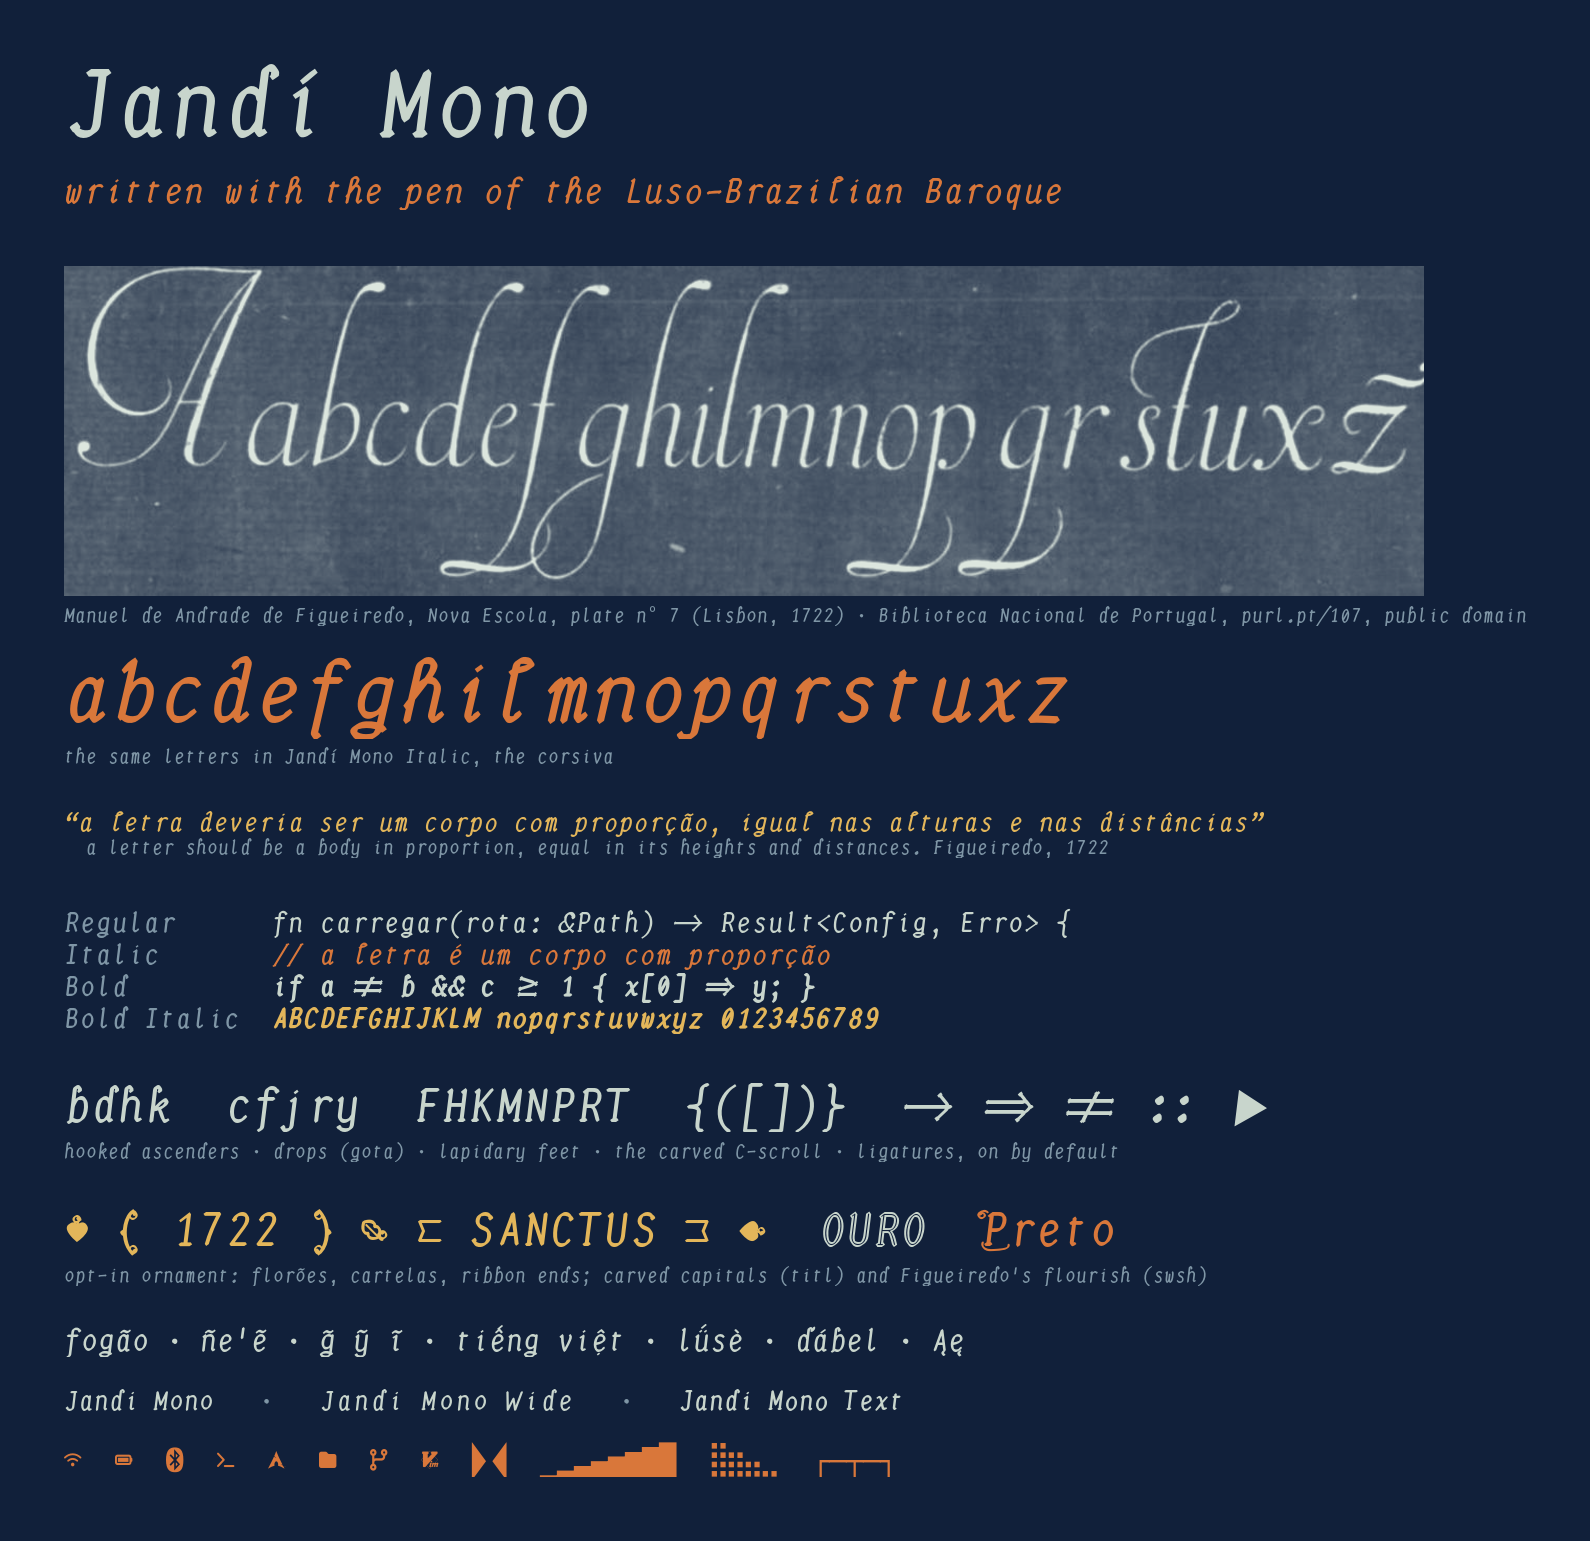
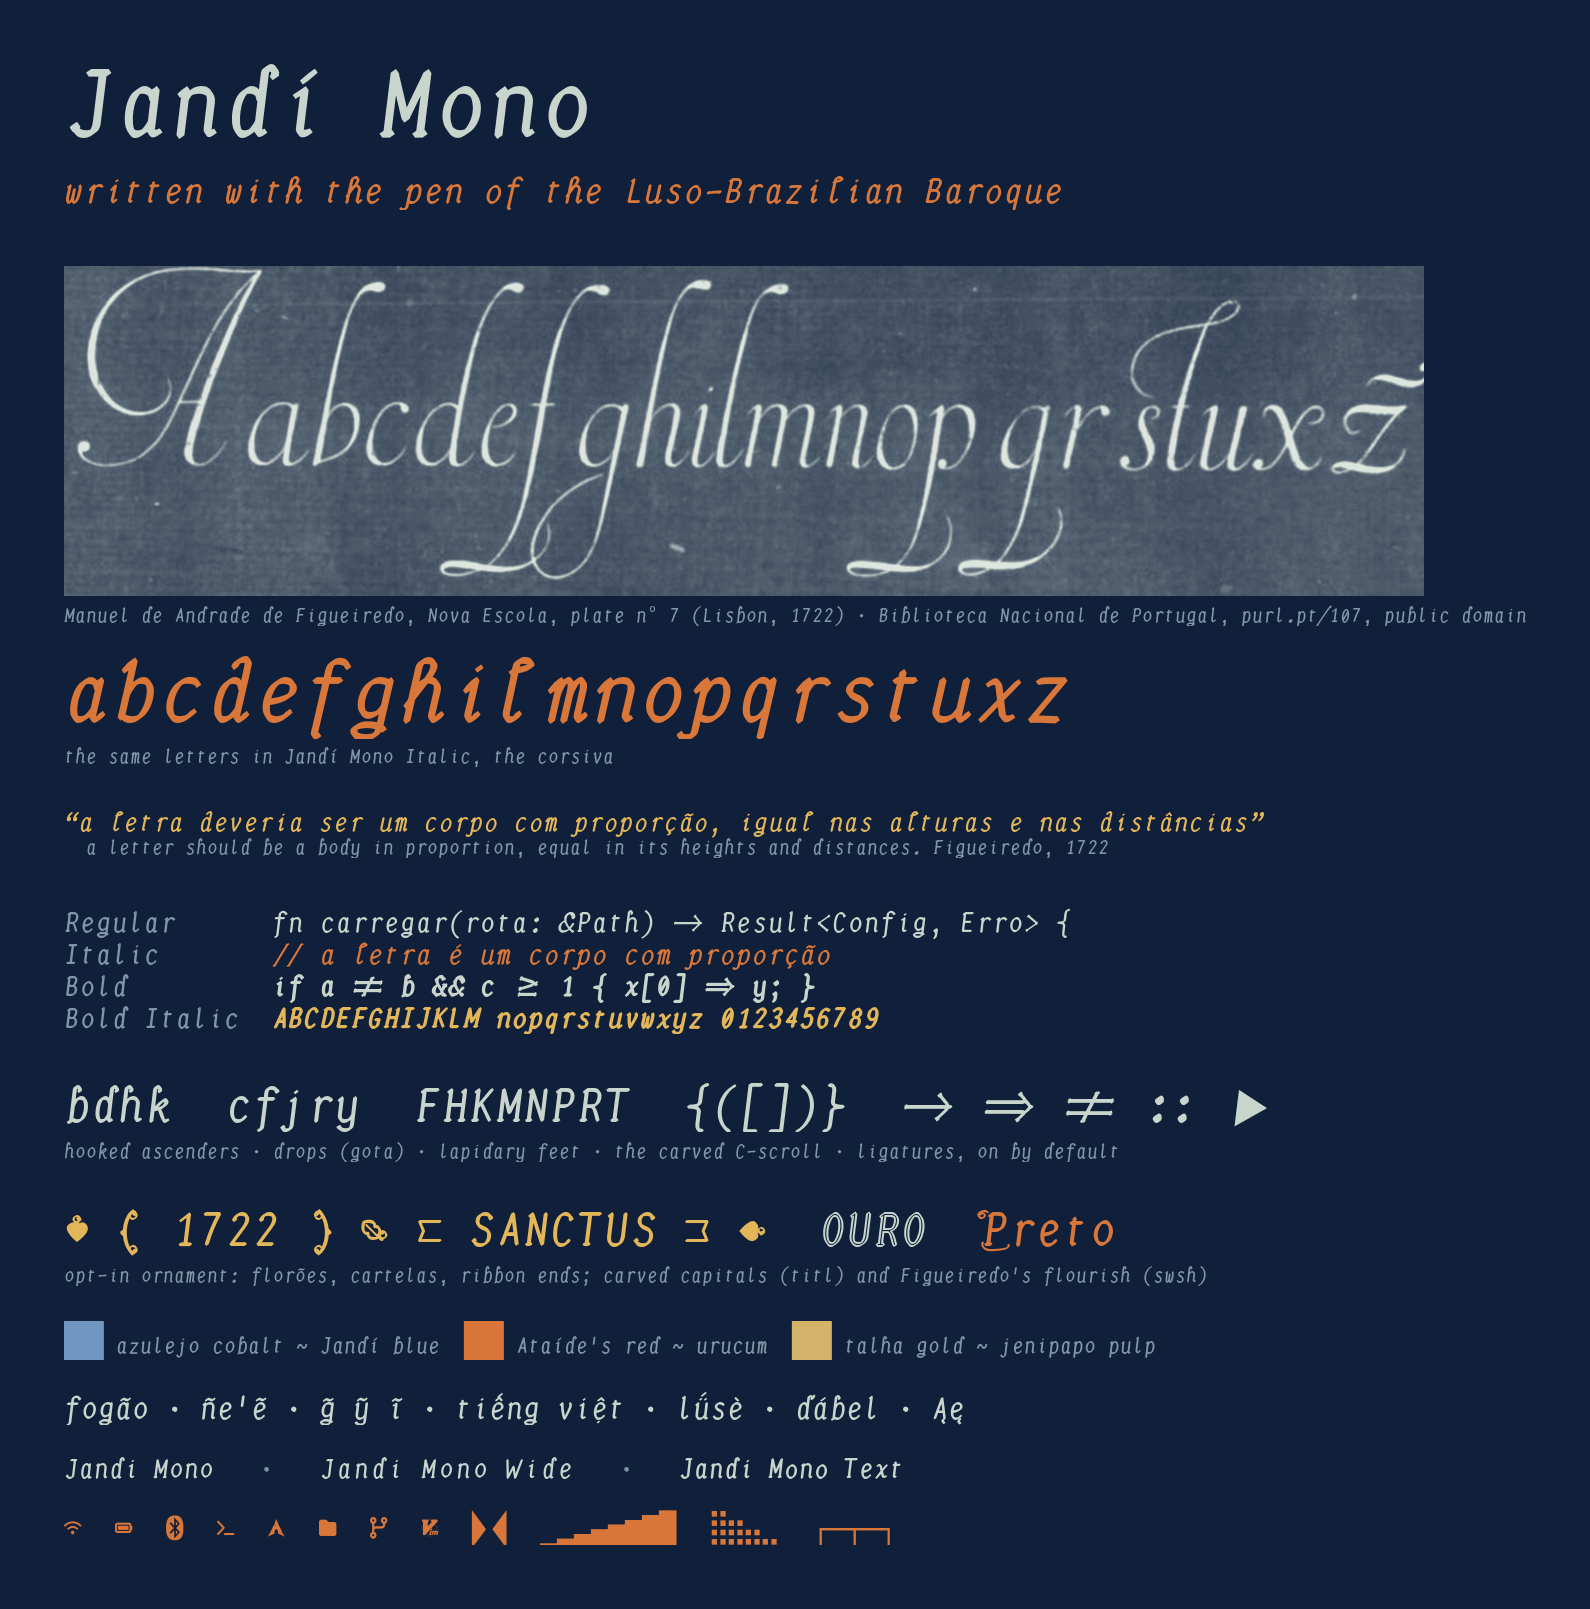
1.0 groundwork: fontbakery QA in CI, metadata fixes, reading test, specimen
- tools/finish.py: font revision agrees with the name table (Version
  M.mmp), Windows clipping metrics cover every glyph (also after the NF
  icons), a STAT table naming each static font's own weight and italic,
  the italic caret slope, no legacy Mac name records. fontbakery's
  universal profile: 0 FAIL, 0 ERROR; rendering unchanged (gate: identical).
- CI: a qa job per family runs fontbakery 1.1.0 (pinned) in parallel with
  the regression gate; releases now wait for both. case_mapping (Radon's
  African-language lowercase without capitals) and opentype/monospace (a
  fontbakery crash on CFF) are excluded with reasons.
- Reading-size guidance in the README; a palette-bridge line on the
  specimen (azulejo cobalt, Ataíde's red, talha gold).
- Roadmap: 1.0 waits on the user's reading-test sessions.

diff --git a/tools/finish.py b/tools/finish.py
@@ -1,0 +1,61 @@
+"""Metadata every built font must get right (fontbakery's universal profile).
+
+Called by merge.py on each style and again by nerd.py, whose icons extend
+the glyph bounds."""
+import math
+from fontTools.pens.boundsPen import BoundsPen
+
+
+def win_metrics(font):
+    """usWinAscent/usWinDescent cover every glyph: Windows clips anything
+    outside them (stacked Pinyin capitals, ornaments, icons). Linux line
+    spacing comes from hhea and OS/2 typo metrics, which stay as they are."""
+    gs = font.getGlyphSet()
+    y_min, y_max = 0, 0
+    for name in font.getGlyphOrder():
+        bp = BoundsPen(gs)
+        gs[name].draw(bp)
+        if bp.bounds:
+            y_min, y_max = min(y_min, bp.bounds[1]), max(y_max, bp.bounds[3])
+    os2 = font['OS/2']
+    os2.usWinAscent = max(os2.usWinAscent, math.ceil(y_max))
+    os2.usWinDescent = max(os2.usWinDescent, math.ceil(-y_min))
+
+
+def version(font, semver):
+    """head.fontRevision and the name table's version string agree: 1.0.0
+    is Version 1.000, 0.8.0 is Version 0.800."""
+    major, minor, patch = (int(x) for x in semver.split('.'))
+    rev = f"{major}.{minor * 100 + patch:03d}"
+    font['head'].fontRevision = float(rev)
+    return rev
+
+
+def caret(font, slant_deg):
+    """The text cursor leans with the letters (hhea caret slope)."""
+    if slant_deg:
+        font['hhea'].caretSlopeRise = 2000
+        font['hhea'].caretSlopeRun = round(2000 * math.tan(math.radians(slant_deg)))
+
+
+def stat(font, weight, italic, weight_name):
+    """A STAT table: the weight and italic axes, so applications group the
+    styles of a family correctly."""
+    from fontTools.otlLib.builder import buildStatTable
+    # A static font names only its own position on each axis.
+    own = dict(value=weight, name=weight_name, **({"flags": 0x2, "linkedValue": 700} if weight == 400 else {}))
+    axes = [
+        dict(tag="wght", name="Weight", values=[own]),
+        # Each static font names only its own italic value: Roman (elidable,
+        # linked to Italic) or Italic.
+        dict(tag="ital", name="Italic",
+             values=[dict(value=1, name="Italic")] if italic
+             else [dict(value=0, name="Roman", flags=0x2, linkedValue=1)]),
+    ]
+    buildStatTable(font, axes, elidedFallbackName=2)
+
+
+def no_mac_names(font):
+    """Only Windows-platform name records: the Mac Roman ones are legacy and
+    modern systems never read them."""
+    font['name'].names = [n for n in font['name'].names if n.platformID != 1]

diff --git a/tools/merge.py b/tools/merge.py
@@ -554,20 +554,25 @@ for rec in list(name.names):
 PSSTYLE = style.replace(' ', '')
 for nid, val in {1: FAMILY, 2: style, 3: f"{VERSION};{PS}-{PSSTYLE}", 4: f"{FAMILY} {style}", 6: f"{PS}-{PSSTYLE}", 18: f"{FAMILY} {style}", 19: "fogão · ñe'ẽ · yandï'pawa"}.items():
     name.setName(val, nid, 3, 1, 0x409)
-    if val.isascii():                     # Mac Roman can't hold ẽ / ï
-        name.setName(val, nid, 1, 0, 0)
 old = name.getDebugName(0) or ""
 name.setName((old + " " if old else "") + "Jandí Mono lowercase and marks: Copyright (c) 2026 arnaudmatheus.", 0, 3, 1, 0x409)
-name.setName(f"Version {VERSION}; derived from Monaspace Radon 1.400", 5, 3, 1, 0x409)
+import finish
+REV = finish.version(font, VERSION)
+name.setName(f"Version {REV}; Jandi Mono {VERSION}; derived from Monaspace Radon 1.400", 5, 3, 1, 0x409)
 name.setName("Monaspace Radon's cursive rewritten with a fixed-angle Renaissance broad nib, for the Jandí theme.", 10, 3, 1, 0x409)
 cff.fontNames = [f"{PS}-{PSSTYLE}"]
 td.FullName = f"{FAMILY} {style}"; td.FamilyName = FAMILY
 if 'Italic' in style:
     font['post'].italicAngle = -float(STYLES[style]['slant'])
 font['OS/2'].fsType = 0
+finish.caret(font, STYLES[style]['slant'] if 'Italic' in style else 0)
+finish.stat(font, 450 if TEXT else (700 if 'Bold' in style else 400), 'Italic' in style,
+            "Text" if TEXT else ("Bold" if 'Bold' in style else "Regular"))
 if TEXT:
     font['OS/2'].usWeightClass = 450
 font['OS/2'].sxHeight = XH_NEW
 font['OS/2'].xAvgCharWidth = CELL
+finish.win_metrics(font)
+finish.no_mac_names(font)
 font.save(out)
 print(f"{out}: replaced {len(done)} glyphs ({len(placed)} base, {len(mark_anchor)} marks), {len(pen_glyphs)} punctuation/symbols/ligatures")

diff --git a/tools/nerd.py b/tools/nerd.py
@@ -76,5 +76,7 @@ for rec in list(name.names):
             name.setName(s.replace(FAM, FAM + ' NF'), rec.nameID, rec.platformID, rec.platEncID, rec.langID)
 cff.fontNames = [cff.fontNames[0].replace(PSFAM + '-', PSFAM + 'NF-')]
 td.FullName = td.FullName.replace(FAM, FAM + ' NF'); td.FamilyName = FAM + ' NF'
+import finish
+finish.win_metrics(font)   # the icons reach past the letters' bounds
 font.save(out)
 print(f"{out}: +{len(added)} icon glyphs, {sum(len(v) for v in added.values())} codepoints")

diff --git a/ROADMAP.md b/ROADMAP.md
@@ -356,18 +356,43 @@ descent.
   1. Derive Wide from the normal family instead of drawing it twice.
   2. A per-glyph cache, keyed on skeleton, nib, slant and cell.
 
-### 1.0.0: validation and release
+### 1.0.0: validation and release (in progress)
 
-- **Reading-speed self-test** page: timed passages in Jandí Mono, Wide, Text
-  and Radon. The best font differs per reader (Wallace et al. 2022), so
-  measure the user's own fit.
-- **fontbakery** QA: OFL metadata, names, vertical metrics, monospace checks.
-- **Specimen** as a Baroque *folha*: the palette bridge (cobalt, urucum, gold),
-  the capitulares and florões in use, and credits to Figueiredo and the Minas
-  sources.
-- README reading-size guidance: an x-height of at least 0.2° means ≥ 15 pt on
-  the laptop for long reading.
-- Omarchy: `omarchy font set "Jandi Mono NF"`.
+- **Reading-speed self-test ✅ built**:
+  [Jandí Reading Test](https://claude.ai/artifact/XDD6j8zVNS581xVPPGP3Lz).
+  - Eight passages in Portuguese, two per font: Jandi Mono, Wide, Text and
+    Radon.
+  - Fonts shown blind as A–D in a shuffled order, with no font twice in a
+    row.
+  - A comprehension question after each passage. Speed counts only passages
+    answered correctly.
+  - Sessions are saved, so results average across days. The best font
+    differs per reader (Wallace et al. 2022), so the user's own results
+    decide 1.0's default.
+  - **Waiting on the user's sessions.**
+- **fontbakery ✅** (pinned 1.1.0, CI `qa` job, every family). Fixed:
+  - the font revision now agrees with the name table;
+  - Windows clipping metrics cover every glyph;
+  - a STAT table, with each static font naming only its own weight and
+    italic;
+  - the italic caret slope;
+  - no legacy Mac name records.
+
+  Two checks are excluded, with reasons in the workflow:
+  - `case_mapping`: about 15 African-language lowercase letters inherited
+    from Radon have no capitals, and Radon fails it too;
+  - `opentype/monospace`: it crashes on CFF fonts, a fontbakery bug.
+- **Specimen ✅**: a Baroque *folha* (`tools/specimen.sh`) with Figueiredo's
+  plate nº 7 and the ornament. Its palette bridge: azulejo cobalt to Jandí
+  blue, Ataíde's red to urucum, gilded *talha* to jenipapo pulp. Earlier
+  drafts said "Casulla gold", but Casulla is another theme; Jandí's own
+  yellow is the right pair.
+- **Reading-size guidance ✅** in the README, with a table per screen.
+- **Omarchy ✅**: already the system font (`omarchy font set "Jandi Mono
+  NF"`) and Ghostty's.
+
+After 1.0: draw the African-language capitals Radon lacks (`Ɓ Ɗ Ɛ Ɔ Ƈ Ƙ`…),
+so `case_mapping` can be checked too.
 
 ---
 

diff --git a/README.md b/README.md
@@ -113,6 +113,27 @@ is our own reading of the Luso-Brazilian Baroque and the *rococó mineiro*.
 Michelangelus is not a source of this font: no outlines, measurements or data
 from it were ever used, which its licence forbids.
 
+## Reading size
+
+Reading slows down sharply once the x-height drops below about 0.2° of
+visual angle, the critical print size (Legge & Bigelow, 2011). What that
+means in points depends on the screen and how far you sit from it:
+
+| Screen | Distance | x-height at 12 pt | Read long text at |
+|---|---|---|---|
+| 24–27" monitor, ~97 PPI | 60 cm | 0.216° | 12 pt or more |
+| Laptop, ~197 PPI at 1.25× scaling | 50 cm | 0.160° | 15 pt or more |
+
+For code that you scan rather than read, smaller is fine. For notes, docs
+and long comments, stay above the line. `docs/metrics.md` has the visual
+angle for each release.
+
+To find the face you read fastest in, use the
+[reading test](https://claude.ai/artifact/XDD6j8zVNS581xVPPGP3Lz): blind,
+counterbalanced passages in Jandi Mono, Wide, Text and Radon, with a
+comprehension check on each. The link opens only for people it's been
+shared with.
+
 ## Ornament (opt-in)
 
 Nothing here appears in normal text. Type the characters, or ask for the
@@ -171,7 +192,9 @@ fonts build unhinted.
 
 Every push and pull request is built on GitHub Actions
 (`.github/workflows/build.yml`), in five parallel jobs of two fonts each,
-and checked by `tools/check.py`. The job
+and checked two ways in parallel. `tools/check.py` is the legibility gate,
+and fontbakery's universal profile (pinned in `requirements-qa.txt`) checks
+OpenType conformance, names and metrics. The job
 fails if any easily confused pair got more than 0.01 worse than the fonts
 committed before the change, the rule every release has followed. The
 fonts and the report are kept with each run. Pushing a tag `v<version>`
